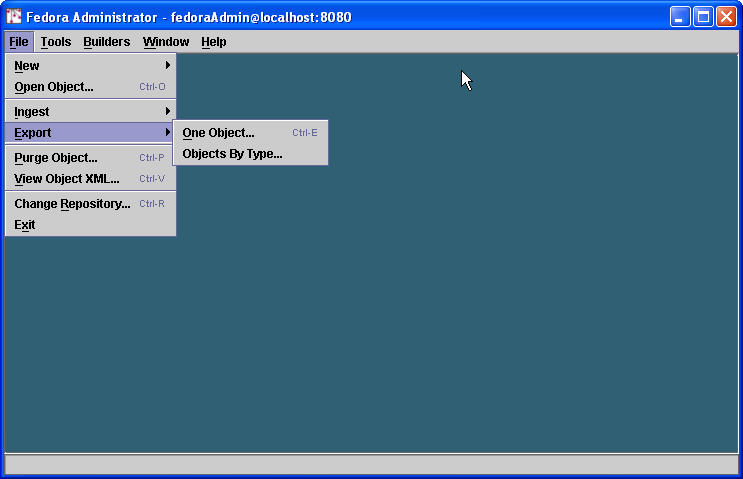
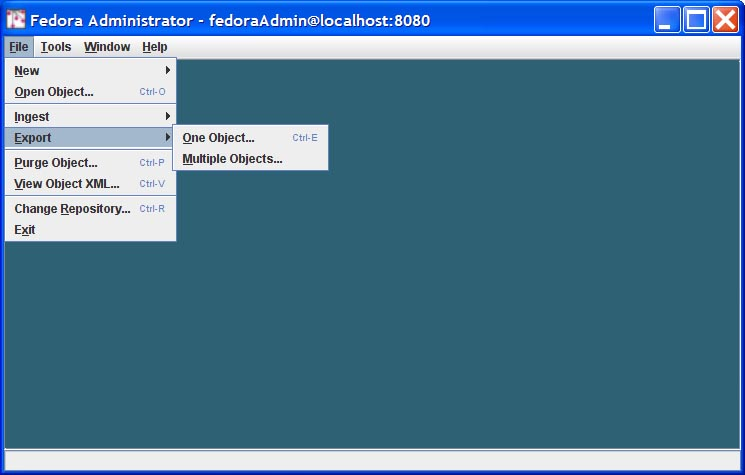
Update ingest/export documentation

Changed region(s): [[0.0, 0.0, 1.0, 1.0]]

diff --git a/src/doc/userdocs/digitalobjects/ingestExport.html b/src/doc/userdocs/digitalobjects/ingestExport.html
@@ -1,7 +1,7 @@
 <?xml version="1.0" encoding="UTF-8"?>
-<!DOCTYPE html PUBLIC "-//W3C//DTD XHTML 1.0 Strict//EN" 
+<!DOCTYPE html PUBLIC "-//W3C//DTD XHTML 1.0 Strict//EN"
   "http://www.w3.org/TR/xhtml1/DTD/xhtml1-strict.dtd">
-                      
+
 <html xmlns="http://www.w3.org/1999/xhtml" xml:lang="en-US" lang="en-US">
   <head>
     <title>Ingest and Export of Digital Objects</title>
@@ -28,22 +28,25 @@
         <li><a href="#custom">Ingest/Export via your own SOAP client</a></li>
       </ol>
     </div>
-    
+
     <ol id="content">
-    
+
       <li>
         <h2 id="formats">A Brief Note on Ingest/Export XML Formats</h2>
         <span class="plaintext">
-          Fedora digital objects can be encoded in different XML formats for ingest and export.  Since Fedora 2.0, objects can be ingested and exported in either the Fedora Object XML (FOXML) format or the Metadata Encoding and Transmission Standard (METS).  Note that Fedora provides an extension of the METS 1.2 schema that adds a few attributes to support Fedora.  In upcoming Fedora releases, other XML formats will be accepted for ingest including MPEG21/DIDL and METS 1.3.  In each case there will be a profile for what a valid Fedora object looks like in those formats.
+          Fedora digital objects can be encoded in several XML formats for ingest and export. Those formats are FOXML 1.1, FOXML 1.0, METS 1.1, and ATOM.
           <br />
           <br />
-          For encoding ingest files in FOXML, please refer to the <a href="http://www.fedora.info/definitions/1/0/foxml1-0.xsd">FOXML XML schema</a> and the <a href="introFOXML.html">Introduction to FOXML</a> guide in the Fedora System Documentation.  Also look at the <a href="foxml-ingest-example.xml">sample FOXML ingest file</a> for a model of a typical ingest file using FOXML.
+          For encoding ingest files in FOXML 1.1, please refer to the <a href="http://www.fedora.info/definitions/1/0/foxml1-1.xsd">FOXML 1.1 XML schema</a> and the <a href="introFOXML.html">Introduction to FOXML</a> guide in the Fedora System Documentation.  Also look at the <a href="foxml-ingest-example.xml">sample FOXML ingest file</a> for a model of a typical ingest file using FOXML.
           <br />
           <br />
-          For encoding ingest files in METS, please refer to the <a href="http://www.fedora.info/definitions/1/0/mets-fedora-ext.xsd">METS XML schema</a> (Fedora extension) and also <a href="rulesForMETS.html">rules for encoding Fedora objects in METS</a>.
+          FOXML 1.0 is included for backwards compatibility. This facilitates ingesting any existing objects you may have in FOXML 1.0 format or exporting objects in FOXML 1.0 for ingest into a legacy repository. It is recommended that if you are creating new objects using FOXML, that you use the FOXML 1.1
+          <br />
+          <br />
+          For encoding ingest files in METS 1.1, please refer to the <a href="http://www.fedora.info/definitions/1/0/mets-fedora-ext1-1.xsd">METS XML schema</a> (Fedora extension) and also <a href="rulesForMETS.html">rules for encoding Fedora objects in METS</a>.
         </span>
       </li>
-      
+
       <li>
         <h2 id="ingestadmin">Ingest an Object via Fedora Administrator</h2>
         <span class="plaintext">
@@ -53,44 +56,44 @@
           From Fedora Administrator, select File/Ingest from the menu bar.   You have the option to ingest one object from a file, or multiple objects either from a directory or from another Fedora repository.
           <br />
           <br />
-          <img src="images/ingestmenu.jpg" width="743" height="479" alt="ingest menu" />
+          <img src="images/ingestmenu.jpg" alt="ingest menu" />
           <br />
           <br />
           When ingesting from a file or a directory, you will be presented with a file browsing dialog, as shown below. Select the file or directory you wish to ingest from.
           <br />
           <br />
-          <img src="images/ingestfiledialog.jpg" width="743" height="479" alt="ingest field dialog" />
+          <img src="images/ingestfiledialog.jpg" alt="ingest field dialog" />
           <br />
           <br />
-          Next, you will be prompted with a dialog box to indicate the XML format of your file or files.  In Fedora 2.0 you have two options:  FOXML and METS (Fedora Extension).  Select the radio button for the appropriate format of your file or files.  Note that if you are ingesting multiple files from a directory, all files must be in the same XML format.  When you select the OK button your file or files will be ingested into the repository.  The Fedora Administrator client makes a call the the ingest operation of API-M.  A successful call results in a new digital object in the repository.
+          Next, you will be prompted with a dialog box to indicate the XML format of your file or files.  Select the radio button for the appropriate format of your file or files.  Note that if you are ingesting multiple files from a directory, all files must be in the same XML format.  When you select the OK button your file or files will be ingested into the repository.  The Fedora Administrator client makes a call the the ingest operation of API-M.  A successful call results in a new digital object in the repository.
           <br />
           <br />
-          <img src="images/ingestformat.jpg" width="743" height="479" alt="ingest format" />
+          <img src="images/ingestformat.jpg"  alt="ingest format" />
         </span>
       </li>
-      
+
       <li>
         <h2 id="exportadmin">Export an Object via Fedora Administrator</h2>
         <span class="plaintext">
-          The Fedora Administrator client provides a graphical user interface for exporting objects from a Fedora repository.  Behind the scenes, Administrator uses Fedora API-M, and the appropriate SOAP calls are made the the repository to accomplish the export.   Objects are exported as XML files.
+          The Fedora Administrator client provides a graphical user interface for exporting objects from a Fedora repository.  Behind the scenes, Administrator uses Fedora API-M, and the appropriate SOAP calls are made to the repository to accomplish the export.   Objects are exported as XML files.
           <br />
           <br />
           The Fedora export operation can be used to migrate objects from one Fedora repository to another.   Export can be used for other purposes too.  You can requests XML encodings of a Fedora objects from a repository to archive objects in a separate offline location.  Also, you may want to dump selected objects into a directory to examine them, or perform some other function on them.  Another use for export is to enable transmission of an entire object to an external service.
           <br />
           <br />
-          From Fedora Administrator, select File/Export from the menu bar.  You have the option to export one object, or multiple objects by type, where type means one of the three primitive Fedora object types (FedoraObject, Fedora Behavior Definition, or Fedora Behavior Mechanism).
+          From Fedora Administrator, select File/Export from the menu bar.  You have the option to export one object, or multiple objects.
           <br />
           <br />
-          <img src="images/exportmenu.jpg" width="743" height="479" alt=export menu" />
+          <img src="images/exportmenu.jpg" alt="export menu" />
           <br />
           <br />
           Next, you will presented with a file browsing dialog where you can select the directory that the file will be exported to, as shown below.
           <br />
           <br />
-          <img src="images/exporttofile.jpg" width="743" height="479" alt="export to file" />
+          <img src="images/exporttofile.jpg" alt="export to file" />
           <br />
           <br />
-          After you have selected the destination of the export file, you will be presented with the export options dialog, shown below.  In this dialog you must first select the XML FORMAT that you would like the digital object to be exported in.  In Fedora 2.0 there are two options:  FOXML and METS (Fedora extension).  Select the radio button for the format you want.  Then, you must specify the export CONTEXT to make sure the export file is prepared appropriately for the purpose it will serve.  There are three options:
+          After you have selected the destination of the export file, you will be presented with the export options dialog, shown below.  In this dialog you must first select the XML FORMAT that you would like the digital object to be exported in. Select the radio button for the format you want.  Then, you must specify the export CONTEXT to make sure the export file is prepared appropriately for the purpose it will serve.  There are three options:
         </span>
             <ul>
               <li><strong>migrate:</strong> selecting the migrate context will ensure that the export file is encoded in a manner appropriate for migrating an object from one Fedora repository to another.  The important feature to note here is that when a Fedora object's datastream contains a URL that is relative to the repository in which the object resides, the migrate option will ensure that the URL remains relative in the <em>new</em> repository.  Any repository-relative URLs will be encoded in the export file with the special string &quot;fedora.local.server&quot; in place of the actual hostname and port of the repository. When the export file is ingested into another Fedora repository, these URLs will become relative to the hostname and port of the new repository.</li>
@@ -98,7 +101,7 @@
               <li><strong>archive:</strong> selecting the archive context wil ensure that the export file is completely self-contained.  Any datastreams that are stored within the Fedora repository (ie. datastreams of type Managed) the content of the datastream will be directly stored in the resulting XML file as base64-encoded data.  The file produced serves as a self-contained archive of the digital object.  Using this format it is possible to export any object stored in a Fedora repository and then subsequently ingest that object into a different Fedora repository even when the original repository is no longer accessible, or even no longer running.</li>
             </ul>
         <span class="plaintext">
-          <img src="images/exportoptions.jpg" width="743" height="479" alt="export options" />
+          <img src="images/exportoptions.jpg" alt="export options" />
           <br />
           <br />
           When you select the OK button, the digital object(s) will be exported from the repository into files(s) according to the options specified. Note that the digital object still resides inside the repository since the export file is just a copy of the digital object.
@@ -107,21 +110,21 @@
           If you are using the export operation to migrate objects from one repository to another, there are two ways to accomplish this via Administrator.  The first option is the two-step approach.  You can login into Administrator connecting to the repository you want to export from.  Then, export objects into files in a directory.  Then use Administrator to connect to the repository you want to migrate the objects into and ingest the objects from the directory (assuming the directory is a shared a shared disk area).   Alternatively, you can let Fedora Administrator accomplish both the export and ingest in one step.  To do it this way, you login to the repository you want to migrate objects into (the target repository).  Then select the File/Ingest/ObjectsFromType/FromRepository menu option in Administrator.  You will be prompted to enter host, port, username, and password for the repository you want to export objects from (the source repository).  Fedora Adminstrator will automatically export objects from the source repository into the target repository in one step.
         </span>
       </li>
-      
+
       <li>
         <h2 id="ingestcmd">Ingest an Object via Command Line</h2>
         <span class="plaintext">
           The Fedora Administrator client provides a command line utility for ingesting objects into a Fedora repository.  Behind the scenes, Administrator uses Fedora API-M, and the appropriate SOAP calls are made the the repository to accomplish the ingest.   Objects are ingested as XML files.   Please see the the <a href="../client/cmd-line/index.html#d0e164">fedora-ingest</a> utility in the Fedora Command Line Utility Guide.
         </span>
       </li>
-      
+
       <li>
         <h2 id="exportcmd">Export an Object via Command Line</h2>
         <span class="plaintext">
           The Fedora Administrator client provides a command line utility for exporting objects from a Fedora repository.  Behind the scenes, Administrator uses Fedora API-M, and the appropriate SOAP calls are made the the repository to accomplish the export.   Objects are export as XML files.  Please see the the <a href="../client/cmd-line/index.html#d0e89">fedora-export</a> utility in the Fedora Command Line Utility Guide.
         </span>
       </li>
-      
+
       <li>
         <h2 id="custom">Ingest/Export via Your Own SOAP Client</h2>
         <span class="plaintext">
@@ -129,7 +132,7 @@
         </span>
       </li>
     </ol>
-    
+
     <div id="footer">
       <p id="copyright">
         Copyright &copy; 2002-2007 Fedora Project
@@ -145,6 +148,6 @@
         p.innerHTML = "Last Modified "+modifiedDate;
       </script>
     </div>
-    
+
   </body>
 </html>
